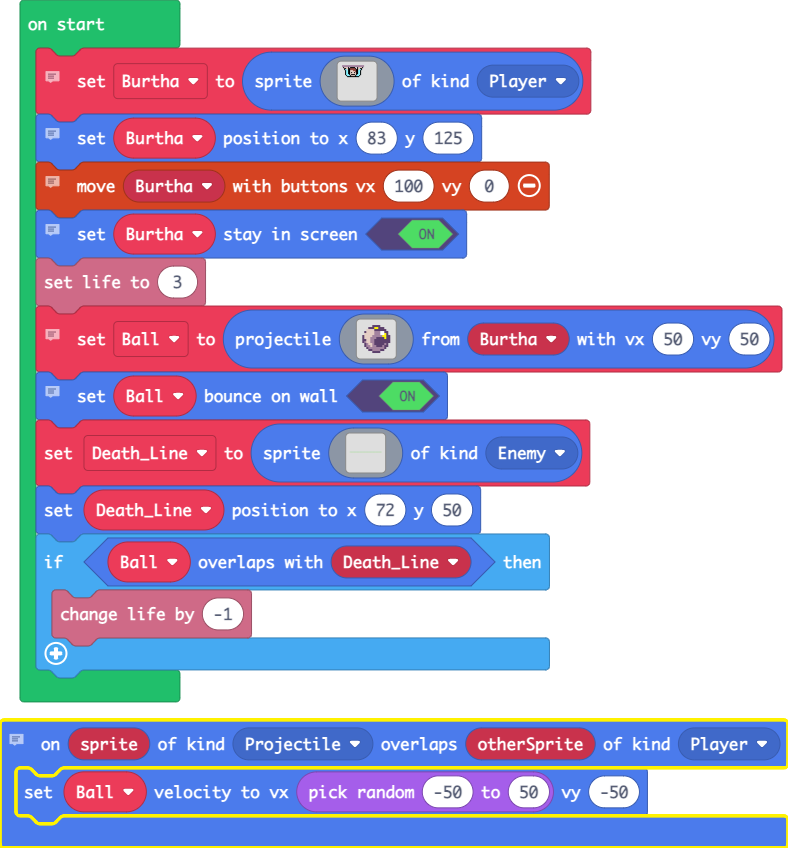
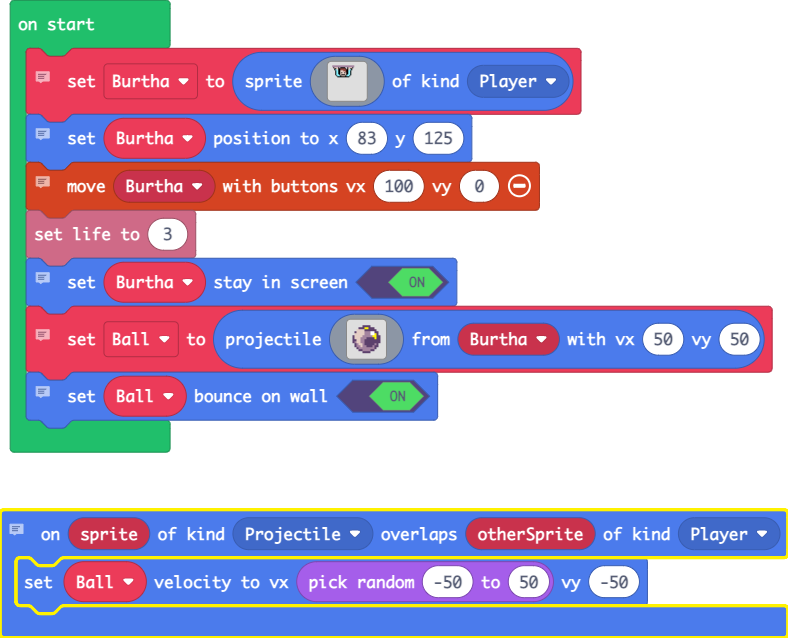
Update main.blocks, main.ts

diff --git a/main.ts b/main.ts
@@ -9,9 +9,9 @@ let Burtha = sprites.create(assets.image`Burtha`, SpriteKind.Player)
 Burtha.setPosition(83, 125)
 // Allows the player to input only left and right inputs
 controller.moveSprite(Burtha, 100, 0)
+info.setLife(3)
 // Doesn't allow the player sprite to go outside of the walls
 Burtha.setStayInScreen(true)
-info.setLife(3)
 // Creates a sprite for the ball, and sets it as a kind projectile
 Ball = sprites.createProjectileFromSprite(img`
     . . . . . . . . . . . . . . . . 
@@ -33,10 +33,3 @@ Ball = sprites.createProjectileFromSprite(img`
     `, Burtha, 50, 50)
 // Makes it so that the ball bounces on the wall when it touches them
 Ball.setBounceOnWall(true)
-let Death_Line = sprites.create(img`
-    7 7 7 7 7 7 7 7 7 7 7 7 7 7 7 7 7 7 7 7 7 7 7 7 7 7 7 7 7 7 7 7 7 7 7 7 7 7 7 7 7 7 7 7 7 7 7 7 7 7 7 7 7 7 7 7 7 7 7 7 7 7 7 7 7 7 7 7 7 7 7 7 7 7 7 7 7 7 7 7 7 7 7 7 7 7 7 7 7 7 7 7 7 7 7 7 7 7 7 7 7 7 7 7 7 7 7 7 7 7 7 7 7 7 7 7 7 7 7 7 7 7 7 7 7 7 7 7 7 7 7 7 7 7 7 7 7 7 7 7 7 7 7 7 7 7 7 7 7 7 
-    `, SpriteKind.Enemy)
-Death_Line.setPosition(72, 50)
-if (Ball.overlapsWith(Death_Line)) {
-    info.changeLifeBy(-1)
-}
